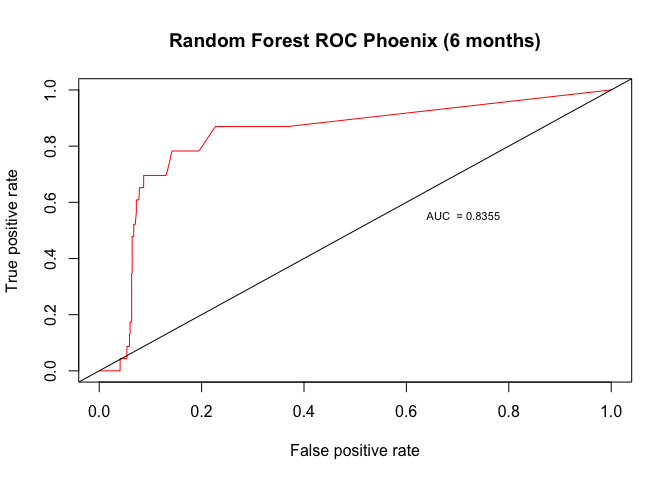
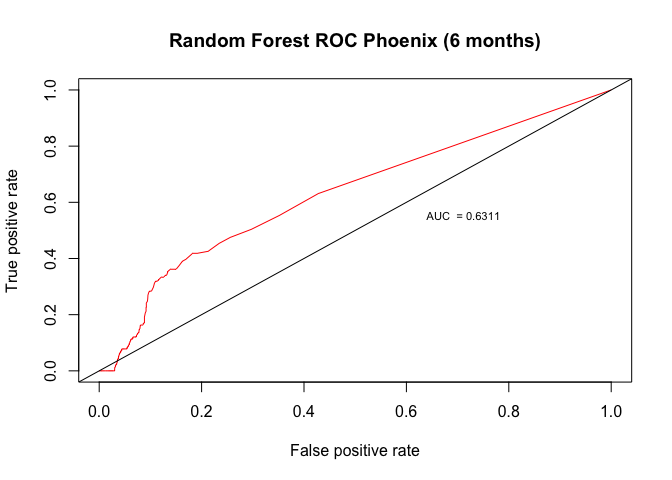
Third commit

diff --git a/Forecasting_icews_phoenix.md b/Forecasting_icews_phoenix.md
@@ -111,17 +111,17 @@ df$onset = as.factor(df$onset)
 Training the model
 ------------------
 
-I split the data on training and test samples. In this example, I train the model on 2001 - 2005 data and test it on 2006 (I use a shorter timeframe to save a training time for this tutorial):
+I split the data on training and test samples. In this example, I train the model on 2001 - 2011 data and test it on 2012-2014:
 
 ``` r
-train_data = df[which(df$year<=2005),]
+train_data = df[which(df$year<=2011),]
 train_data_l3 = subset(train_data, select=c("ccode", "year", "month",
                                             "vcp_l.3", "mcp_l.3", "vcf_l.3", "mcf_l.3", 'onset'))
 train_data_l6 = subset(train_data, select=c("ccode", "year", "month",
                                             "vcp_l.6", "mcp_l.6", "vcf_l.6", "mcf_l.6", 'onset'))
 
 
-test_data = df[which(df$year==2006),]
+test_data = df[which(df$year>=2012),]
 test_data_l3 = subset(test_data, select=c("ccode", "year", "month",
                                             "vcp_l.3", "mcp_l.3", "vcf_l.3", "mcf_l.3", 'onset'))
 test_data_l6 = subset(test_data, select=c("ccode", "year", "month",
@@ -144,19 +144,19 @@ print(rf_model)
 
     ## Random Forest 
     ## 
-    ## 5273 samples
-    ##    7 predictor
-    ##    2 classes: '0', '1' 
+    ## 11409 samples
+    ##     7 predictor
+    ##     2 classes: '0', '1' 
     ## 
     ## No pre-processing
     ## Resampling: Cross-Validated (5 fold) 
-    ## Summary of sample sizes: 4219, 4219, 4217, 4218, 4219 
+    ## Summary of sample sizes: 9128, 9126, 9127, 9127, 9128 
     ## Resampling results across tuning parameters:
     ## 
     ##   mtry  Accuracy   Kappa    
-    ##   2     0.9624513  0.3002987
-    ##   4     0.9736396  0.6060027
-    ##   7     0.9806565  0.7469173
+    ##   2     0.9726533  0.1508018
+    ##   4     0.9784388  0.4916705
+    ##   7     0.9831717  0.6674092
     ## 
     ## Accuracy was used to select the optimal model using  the largest value.
     ## The final value used for the model was mtry = 7.
@@ -174,26 +174,26 @@ print(cfMatrix)
     ## Confusion Matrix and Statistics
     ## 
     ##           Reference
-    ## Prediction   0   1
-    ##          0 936  23
-    ##          1  43   0
+    ## Prediction    0    1
+    ##          0 1834  140
+    ##          1   56    1
     ##                                          
-    ##                Accuracy : 0.9341         
-    ##                  95% CI : (0.917, 0.9487)
-    ##     No Information Rate : 0.977          
-    ##     P-Value [Acc > NIR] : 1.00000        
+    ##                Accuracy : 0.9035         
+    ##                  95% CI : (0.8898, 0.916)
+    ##     No Information Rate : 0.9306         
+    ##     P-Value [Acc > NIR] : 1              
     ##                                          
-    ##                   Kappa : -0.0308        
-    ##  Mcnemar's Test P-Value : 0.01935        
+    ##                   Kappa : -0.0311        
+    ##  Mcnemar's Test P-Value : 3.056e-09      
     ##                                          
-    ##             Sensitivity : 0.9561         
-    ##             Specificity : 0.0000         
-    ##          Pos Pred Value : 0.9760         
-    ##          Neg Pred Value : 0.0000         
-    ##              Prevalence : 0.9770         
-    ##          Detection Rate : 0.9341         
-    ##    Detection Prevalence : 0.9571         
-    ##       Balanced Accuracy : 0.4780         
+    ##             Sensitivity : 0.970370       
+    ##             Specificity : 0.007092       
+    ##          Pos Pred Value : 0.929078       
+    ##          Neg Pred Value : 0.017544       
+    ##              Prevalence : 0.930576       
+    ##          Detection Rate : 0.903003       
+    ##    Detection Prevalence : 0.971935       
+    ##       Balanced Accuracy : 0.488731       
     ##                                          
     ##        'Positive' Class : 0              
     ## 
@@ -228,7 +228,7 @@ plot(perf)
 f <- approxfun(data.frame(perf@x.values , perf@y.values) ) 
 auc <- integrate(f, 0, 1)$value
 aucpr <- paste(c("AUC  = "),round(auc,4), sep="")
-legend("center", aucpr ,border="white",cex=1,box.col = "white")
+legend("bottom", aucpr ,border="white",cex=1,box.col = "white")
 ```
 
 ![](Forecasting_icews_phoenix_files/figure-markdown_github/unnamed-chunk-12-1.png)
@@ -249,19 +249,19 @@ print(rf_model)
 
     ## Random Forest 
     ## 
-    ## 5273 samples
-    ##    7 predictor
-    ##    2 classes: '0', '1' 
+    ## 11409 samples
+    ##     7 predictor
+    ##     2 classes: '0', '1' 
     ## 
     ## No pre-processing
     ## Resampling: Cross-Validated (5 fold) 
-    ## Summary of sample sizes: 4219, 4219, 4219, 4218, 4217 
+    ## Summary of sample sizes: 9126, 9127, 9128, 9127, 9128 
     ## Resampling results across tuning parameters:
     ## 
     ##   mtry  Accuracy   Kappa    
-    ##   2     0.9630204  0.2948843
-    ##   4     0.9749671  0.6202227
-    ##   7     0.9819848  0.7547998
+    ##   2     0.9730038  0.1828678
+    ##   4     0.9800160  0.5386236
+    ##   7     0.9850994  0.7046314
     ## 
     ## Accuracy was used to select the optimal model using  the largest value.
     ## The final value used for the model was mtry = 7.
@@ -275,28 +275,28 @@ print(cfMatrix)
     ## Confusion Matrix and Statistics
     ## 
     ##           Reference
-    ## Prediction   0   1
-    ##          0 935  22
-    ##          1  44   1
-    ##                                          
-    ##                Accuracy : 0.9341         
-    ##                  95% CI : (0.917, 0.9487)
-    ##     No Information Rate : 0.977          
-    ##     P-Value [Acc > NIR] : 1.00000        
-    ##                                          
-    ##                   Kappa : -0.001         
-    ##  Mcnemar's Test P-Value : 0.00974        
-    ##                                          
-    ##             Sensitivity : 0.95506        
-    ##             Specificity : 0.04348        
-    ##          Pos Pred Value : 0.97701        
-    ##          Neg Pred Value : 0.02222        
-    ##              Prevalence : 0.97705        
-    ##          Detection Rate : 0.93313        
-    ##    Detection Prevalence : 0.95509        
-    ##       Balanced Accuracy : 0.49927        
-    ##                                          
-    ##        'Positive' Class : 0              
+    ## Prediction    0    1
+    ##          0 1833  141
+    ##          1   57    0
+    ##                                           
+    ##                Accuracy : 0.9025          
+    ##                  95% CI : (0.8888, 0.9151)
+    ##     No Information Rate : 0.9306          
+    ##     P-Value [Acc > NIR] : 1               
+    ##                                           
+    ##                   Kappa : -0.0416         
+    ##  Mcnemar's Test P-Value : 3.667e-09       
+    ##                                           
+    ##             Sensitivity : 0.9698          
+    ##             Specificity : 0.0000          
+    ##          Pos Pred Value : 0.9286          
+    ##          Neg Pred Value : 0.0000          
+    ##              Prevalence : 0.9306          
+    ##          Detection Rate : 0.9025          
+    ##    Detection Prevalence : 0.9719          
+    ##       Balanced Accuracy : 0.4849          
+    ##                                           
+    ##        'Positive' Class : 0               
     ## 
 
 ``` r
@@ -325,7 +325,7 @@ plot(perf)
 f <- approxfun(data.frame(perf@x.values , perf@y.values) ) 
 auc <- integrate(f, 0, 1)$value
 aucpr <- paste(c("AUC  = "),round(auc,4), sep="")
-legend("center", aucpr ,border="white",cex=1,box.col = "white")
+legend("bottom", aucpr ,border="white",cex=1,box.col = "white")
 ```
 
 ![](Forecasting_icews_phoenix_files/figure-markdown_github/unnamed-chunk-16-1.png)
@@ -372,14 +372,14 @@ Training the model
 
 ``` r
 # split the data
-train_data = df2[which(df2$year<=2005),]
+train_data = df2[which(df2$year<=2011),]
 train_data_l3 = subset(train_data, select=c("ccode", "year", "month",
                                             "vcp_l.3", "mcp_l.3", "vcf_l.3", "mcf_l.3", 'onset'))
 train_data_l6 = subset(train_data, select=c("ccode", "year", "month",
                                             "vcp_l.6", "mcp_l.6", "vcf_l.6", "mcf_l.6", 'onset'))
 
 
-test_data = df2[which(df2$year==2006),]
+test_data = df2[which(df2$year>=2012),]
 test_data_l3 = subset(test_data, select=c("ccode", "year", "month",
                                           "vcp_l.3", "mcp_l.3", "vcf_l.3", "mcf_l.3", 'onset'))
 test_data_l6 = subset(test_data, select=c("ccode", "year", "month",
@@ -407,25 +407,25 @@ print(cfMatrix)
     ## 
     ##           Reference
     ## Prediction    0    1
-    ##          0 1703   32
-    ##          1   57    0
+    ##          0 4021  185
+    ##          1   22    4
     ##                                           
-    ##                Accuracy : 0.9503          
-    ##                  95% CI : (0.9392, 0.9599)
-    ##     No Information Rate : 0.9821          
-    ##     P-Value [Acc > NIR] : 1.00000         
+    ##                Accuracy : 0.9511          
+    ##                  95% CI : (0.9442, 0.9574)
+    ##     No Information Rate : 0.9553          
+    ##     P-Value [Acc > NIR] : 0.9142          
     ##                                           
-    ##                   Kappa : -0.0234         
-    ##  Mcnemar's Test P-Value : 0.01096         
+    ##                   Kappa : 0.0267          
+    ##  Mcnemar's Test P-Value : <2e-16          
     ##                                           
-    ##             Sensitivity : 0.9676          
-    ##             Specificity : 0.0000          
-    ##          Pos Pred Value : 0.9816          
-    ##          Neg Pred Value : 0.0000          
-    ##              Prevalence : 0.9821          
-    ##          Detection Rate : 0.9503          
-    ##    Detection Prevalence : 0.9682          
-    ##       Balanced Accuracy : 0.4838          
+    ##             Sensitivity : 0.99456         
+    ##             Specificity : 0.02116         
+    ##          Pos Pred Value : 0.95602         
+    ##          Neg Pred Value : 0.15385         
+    ##              Prevalence : 0.95534         
+    ##          Detection Rate : 0.95014         
+    ##    Detection Prevalence : 0.99386         
+    ##       Balanced Accuracy : 0.50786         
     ##                                           
     ##        'Positive' Class : 0               
     ## 
@@ -457,7 +457,7 @@ plot(perf)
 f <- approxfun(data.frame(perf@x.values , perf@y.values) ) 
 auc <- integrate(f, 0, 1)$value
 aucpr <- paste(c("AUC  = "),round(auc,4), sep="")
-legend("center", aucpr ,border="white",cex=1,box.col = "white")
+legend("bottom", aucpr ,border="white",cex=1,box.col = "white")
 ```
 
 ![](Forecasting_icews_phoenix_files/figure-markdown_github/unnamed-chunk-23-1.png)
@@ -483,25 +483,25 @@ print(cfMatrix)
     ## 
     ##           Reference
     ## Prediction    0    1
-    ##          0 1698   32
-    ##          1   62    0
+    ##          0 3995  187
+    ##          1   48    2
     ##                                           
-    ##                Accuracy : 0.9475          
-    ##                  95% CI : (0.9362, 0.9574)
-    ##     No Information Rate : 0.9821          
-    ##     P-Value [Acc > NIR] : 1.00000         
+    ##                Accuracy : 0.9445          
+    ##                  95% CI : (0.9371, 0.9512)
+    ##     No Information Rate : 0.9553          
+    ##     P-Value [Acc > NIR] : 0.9996          
     ##                                           
-    ##                   Kappa : -0.0241         
-    ##  Mcnemar's Test P-Value : 0.00278         
+    ##                   Kappa : -0.002          
+    ##  Mcnemar's Test P-Value : <2e-16          
     ##                                           
-    ##             Sensitivity : 0.9648          
-    ##             Specificity : 0.0000          
-    ##          Pos Pred Value : 0.9815          
-    ##          Neg Pred Value : 0.0000          
-    ##              Prevalence : 0.9821          
-    ##          Detection Rate : 0.9475          
-    ##    Detection Prevalence : 0.9654          
-    ##       Balanced Accuracy : 0.4824          
+    ##             Sensitivity : 0.98813         
+    ##             Specificity : 0.01058         
+    ##          Pos Pred Value : 0.95528         
+    ##          Neg Pred Value : 0.04000         
+    ##              Prevalence : 0.95534         
+    ##          Detection Rate : 0.94400         
+    ##    Detection Prevalence : 0.98819         
+    ##       Balanced Accuracy : 0.49935         
     ##                                           
     ##        'Positive' Class : 0               
     ## 
@@ -532,7 +532,7 @@ plot(perf)
 f <- approxfun(data.frame(perf@x.values , perf@y.values) ) 
 auc <- integrate(f, 0, 1)$value
 aucpr <- paste(c("AUC  = "),round(auc,4), sep="")
-legend("center", aucpr ,border="white",cex=1,box.col = "white")
+legend("bottom", aucpr ,border="white",cex=1,box.col = "white")
 ```
 
 ![](Forecasting_icews_phoenix_files/figure-markdown_github/unnamed-chunk-27-1.png)
